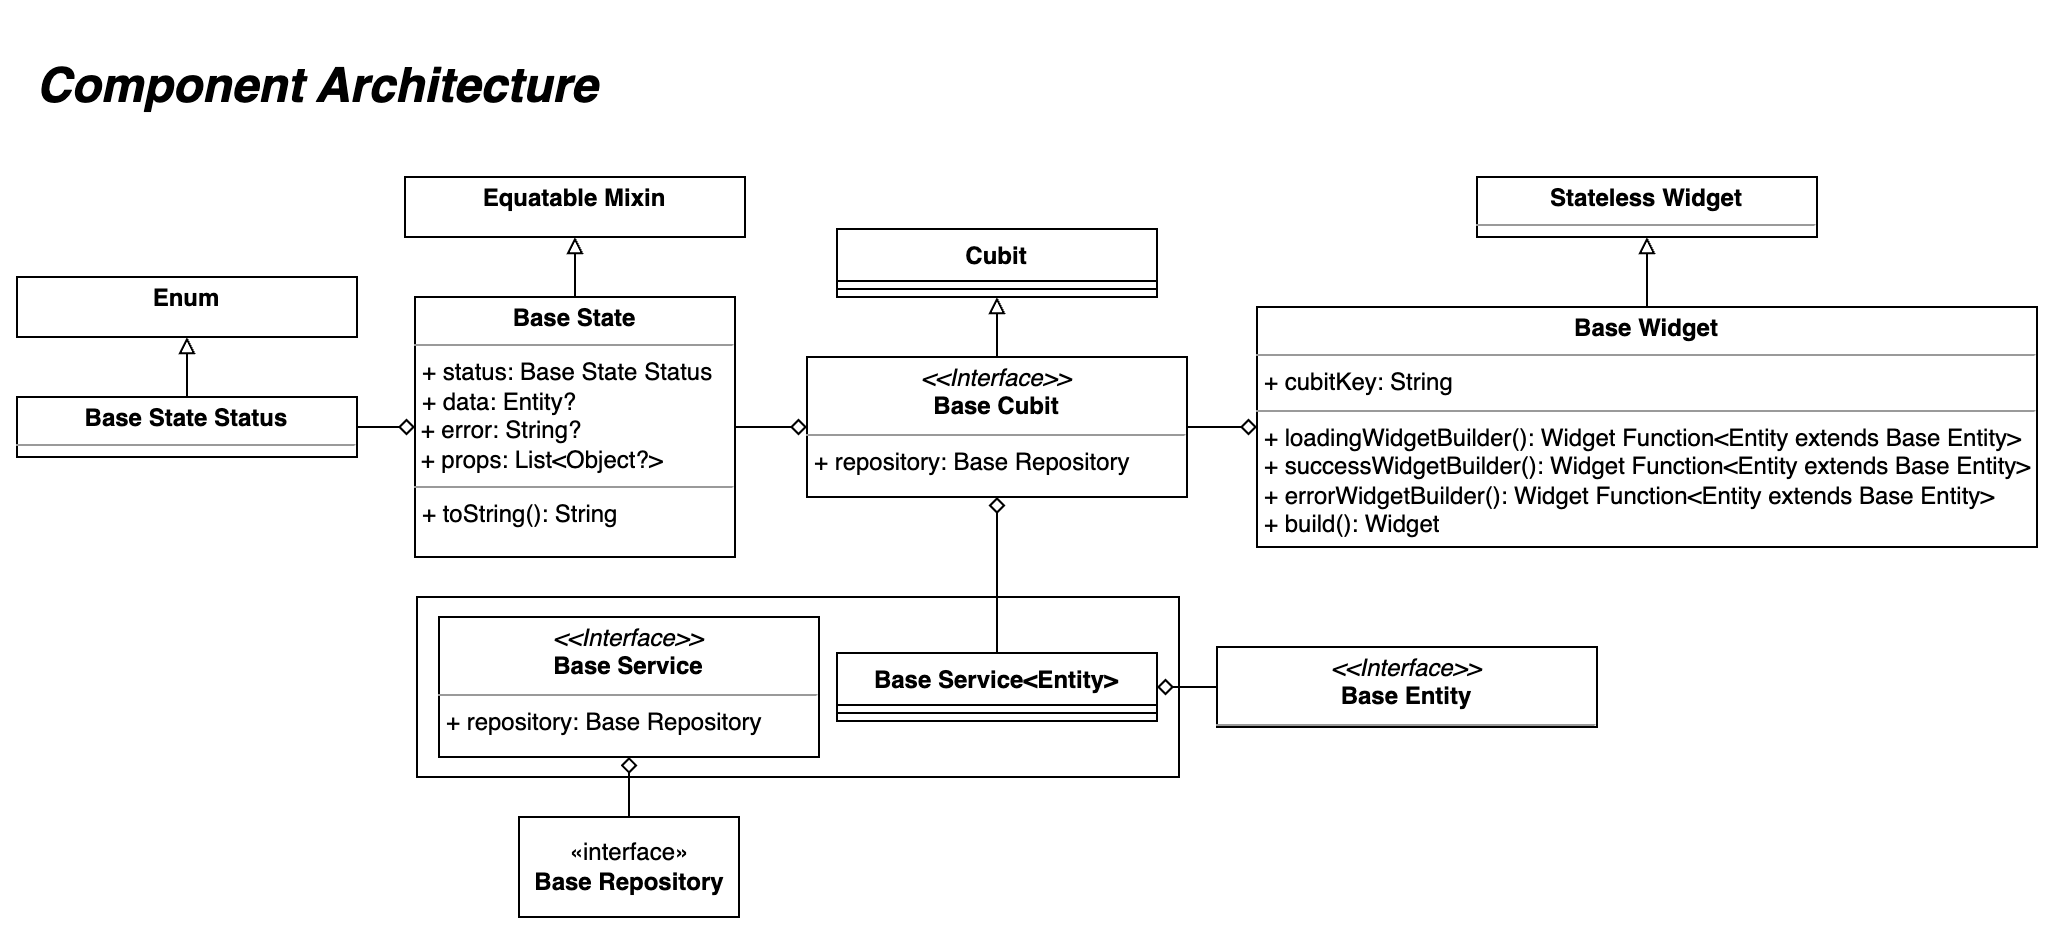
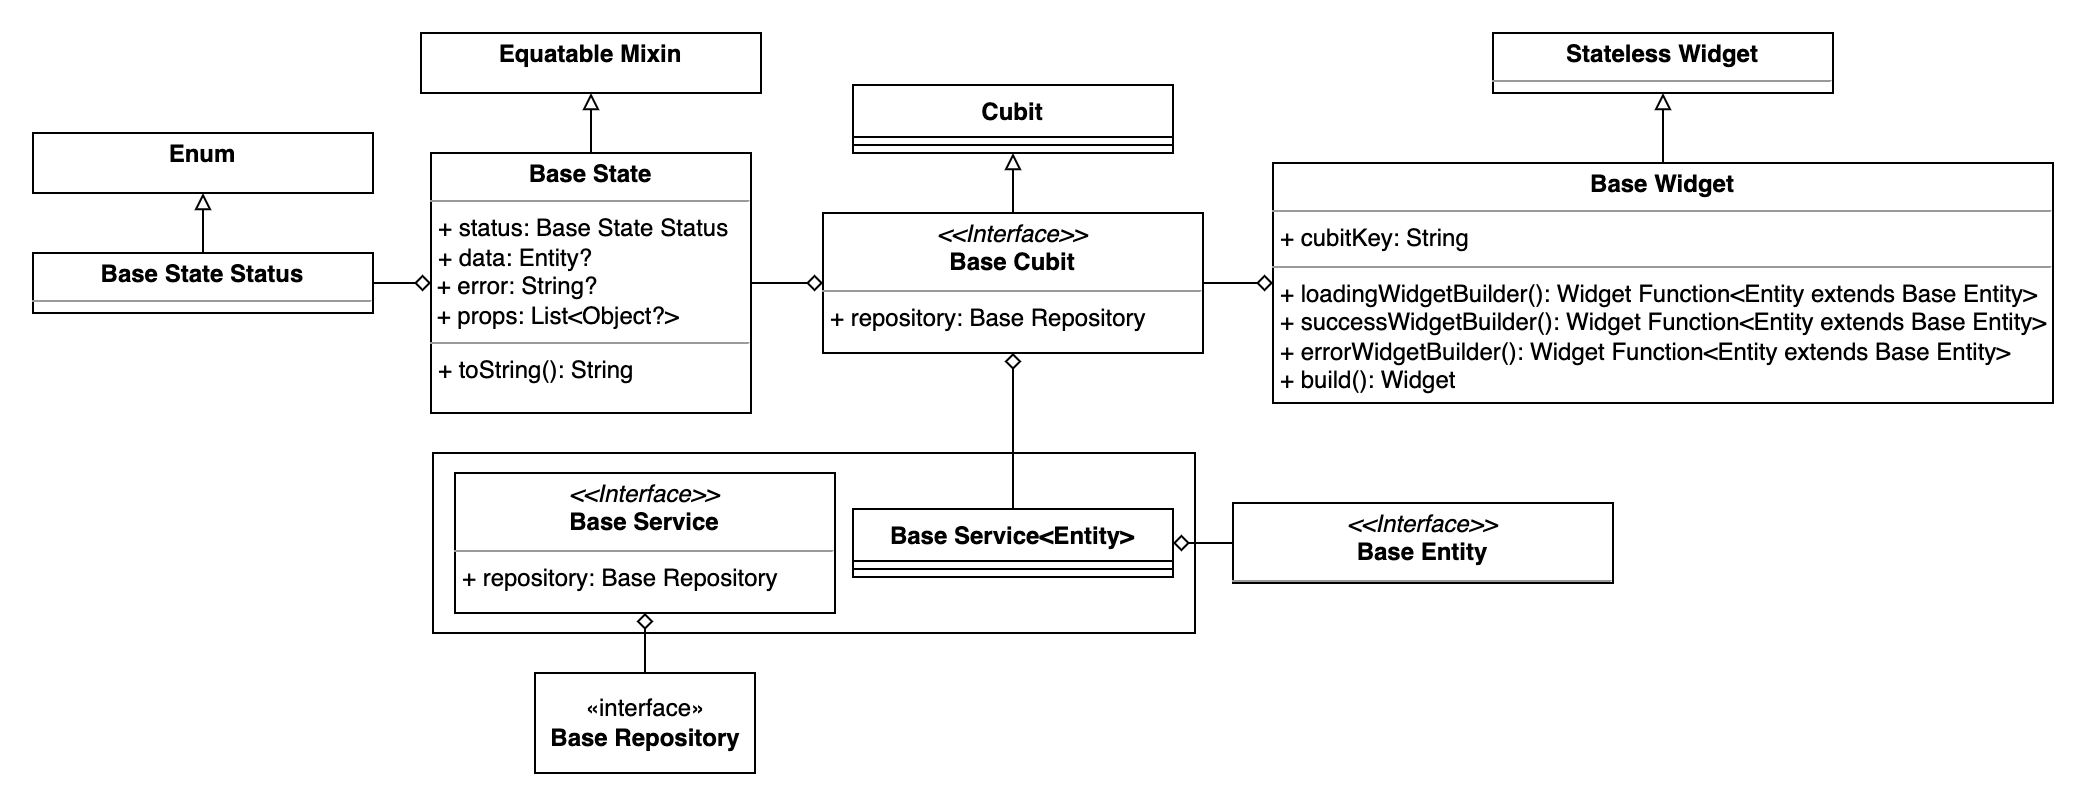
update readme file

diff --git a/README.md b/README.md
@@ -40,6 +40,10 @@ Then it generates the following files:
 
 ## Architecture
 
+#### Component Architecture Diagram
+
+![Component Architecture UML Diagram](/component_architecture.png)
+
 #### Architecture Diagram
 
 ![Architecture Diagram](/architecture_diagram.png)
